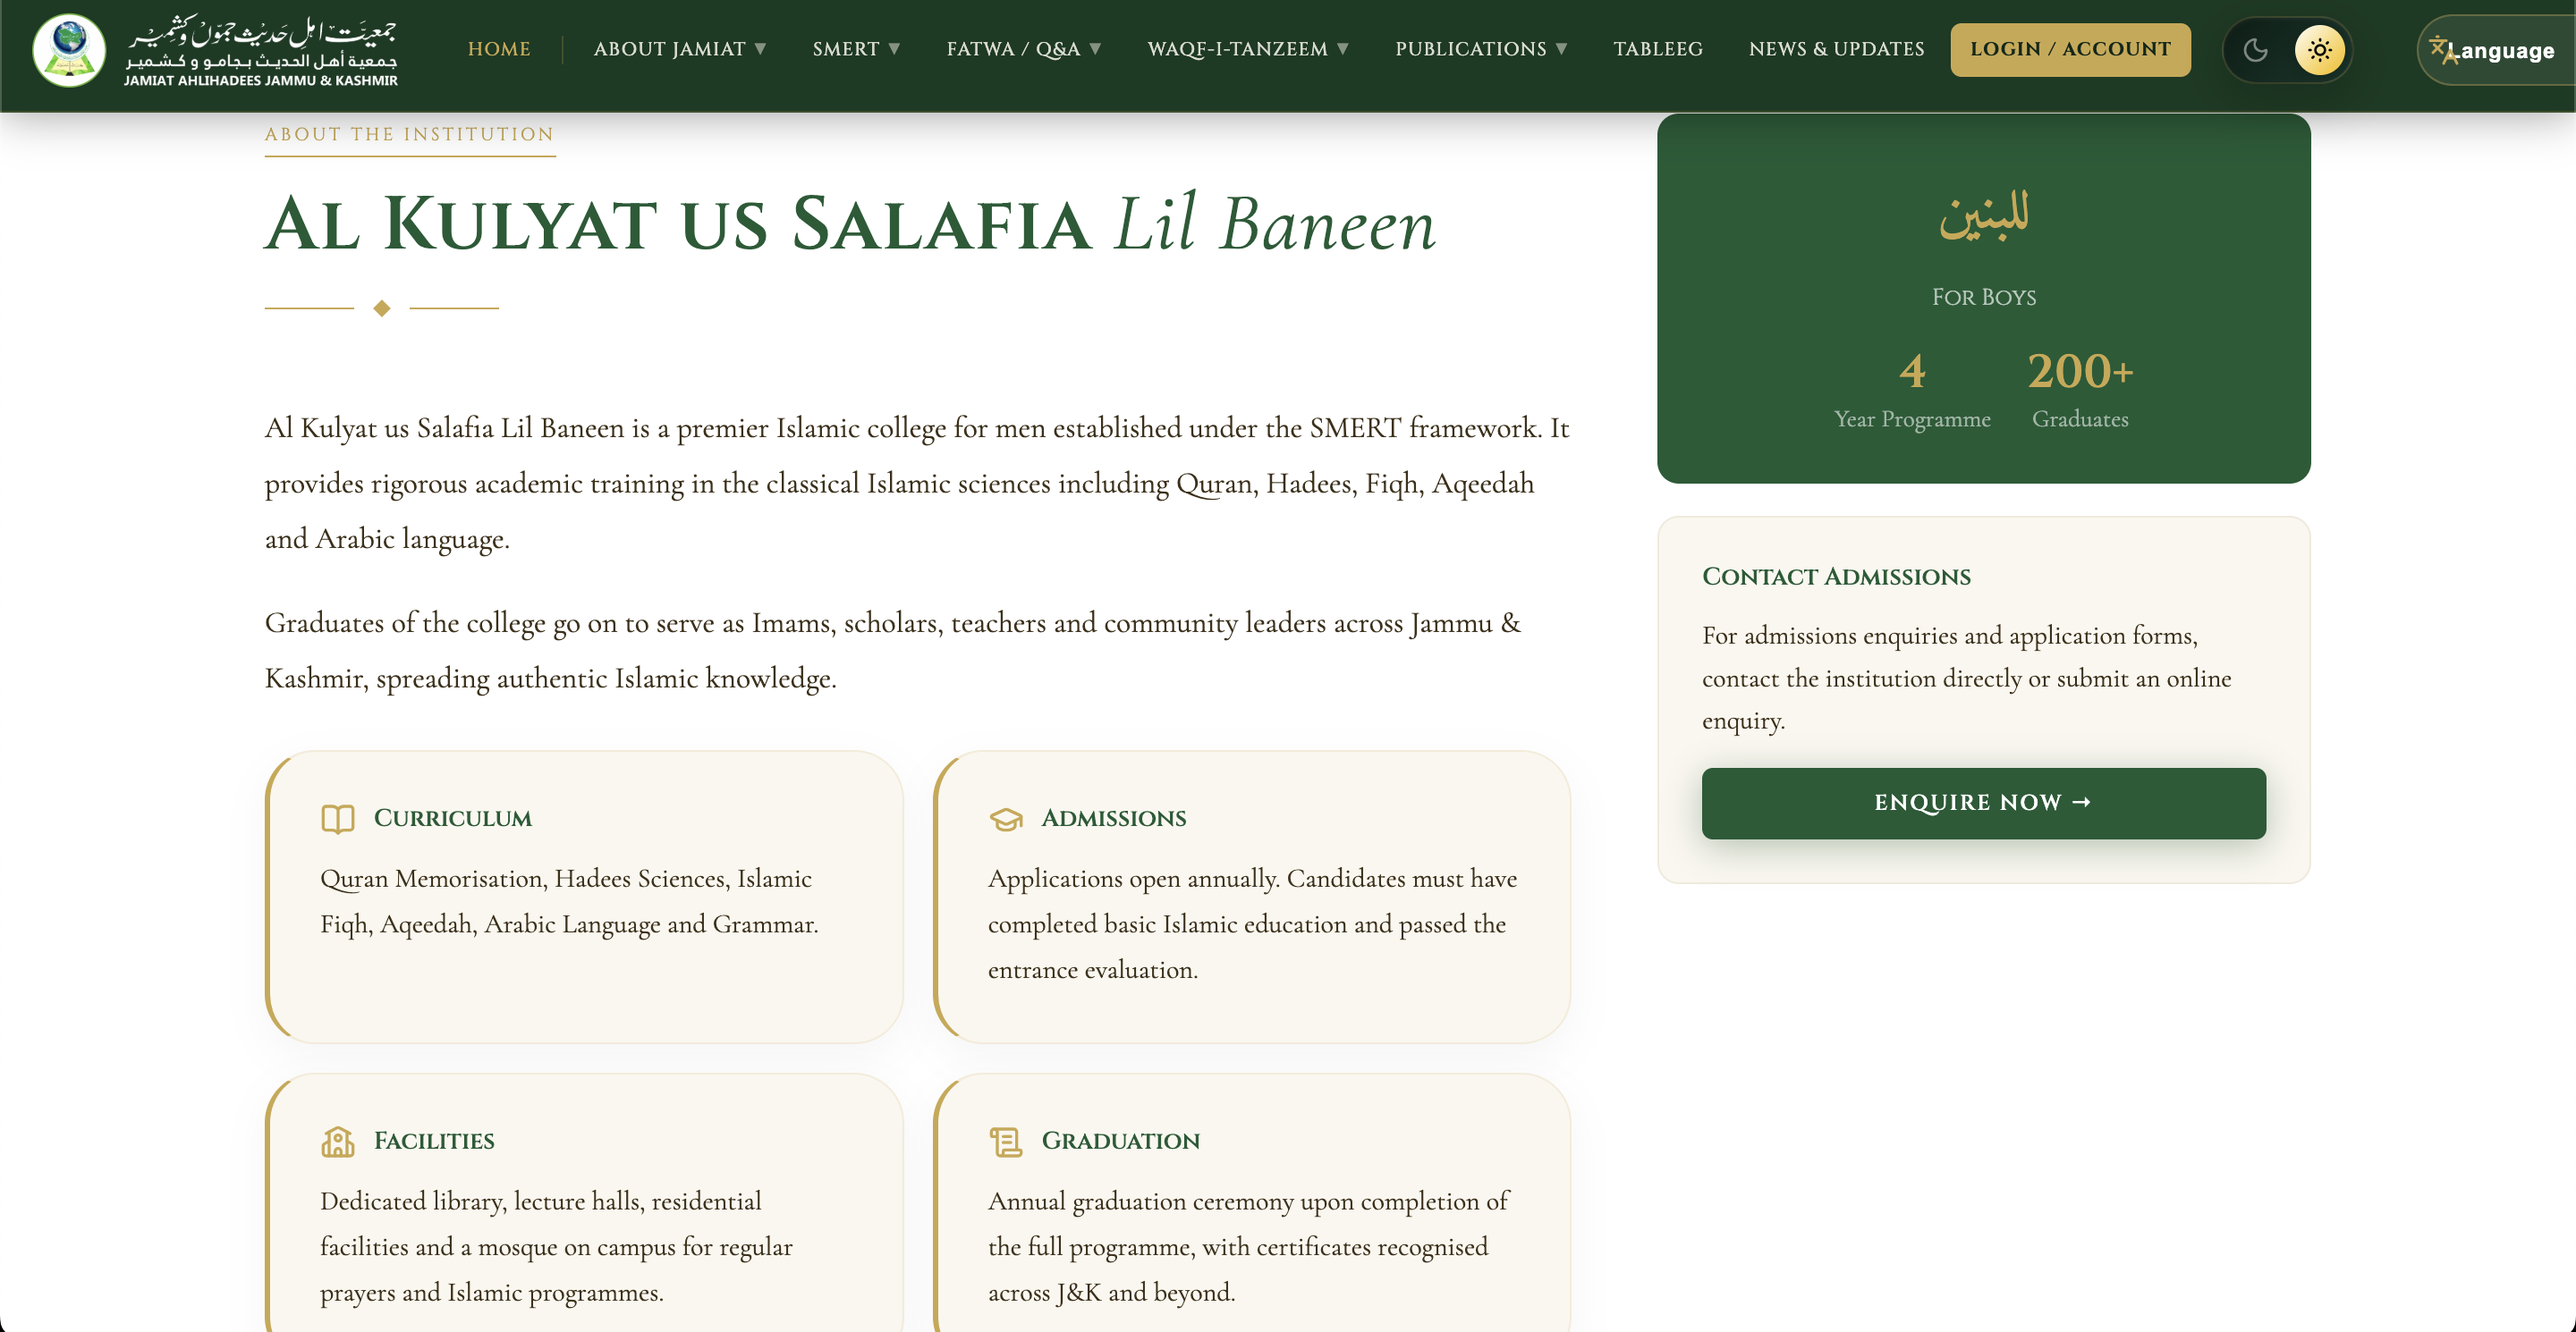
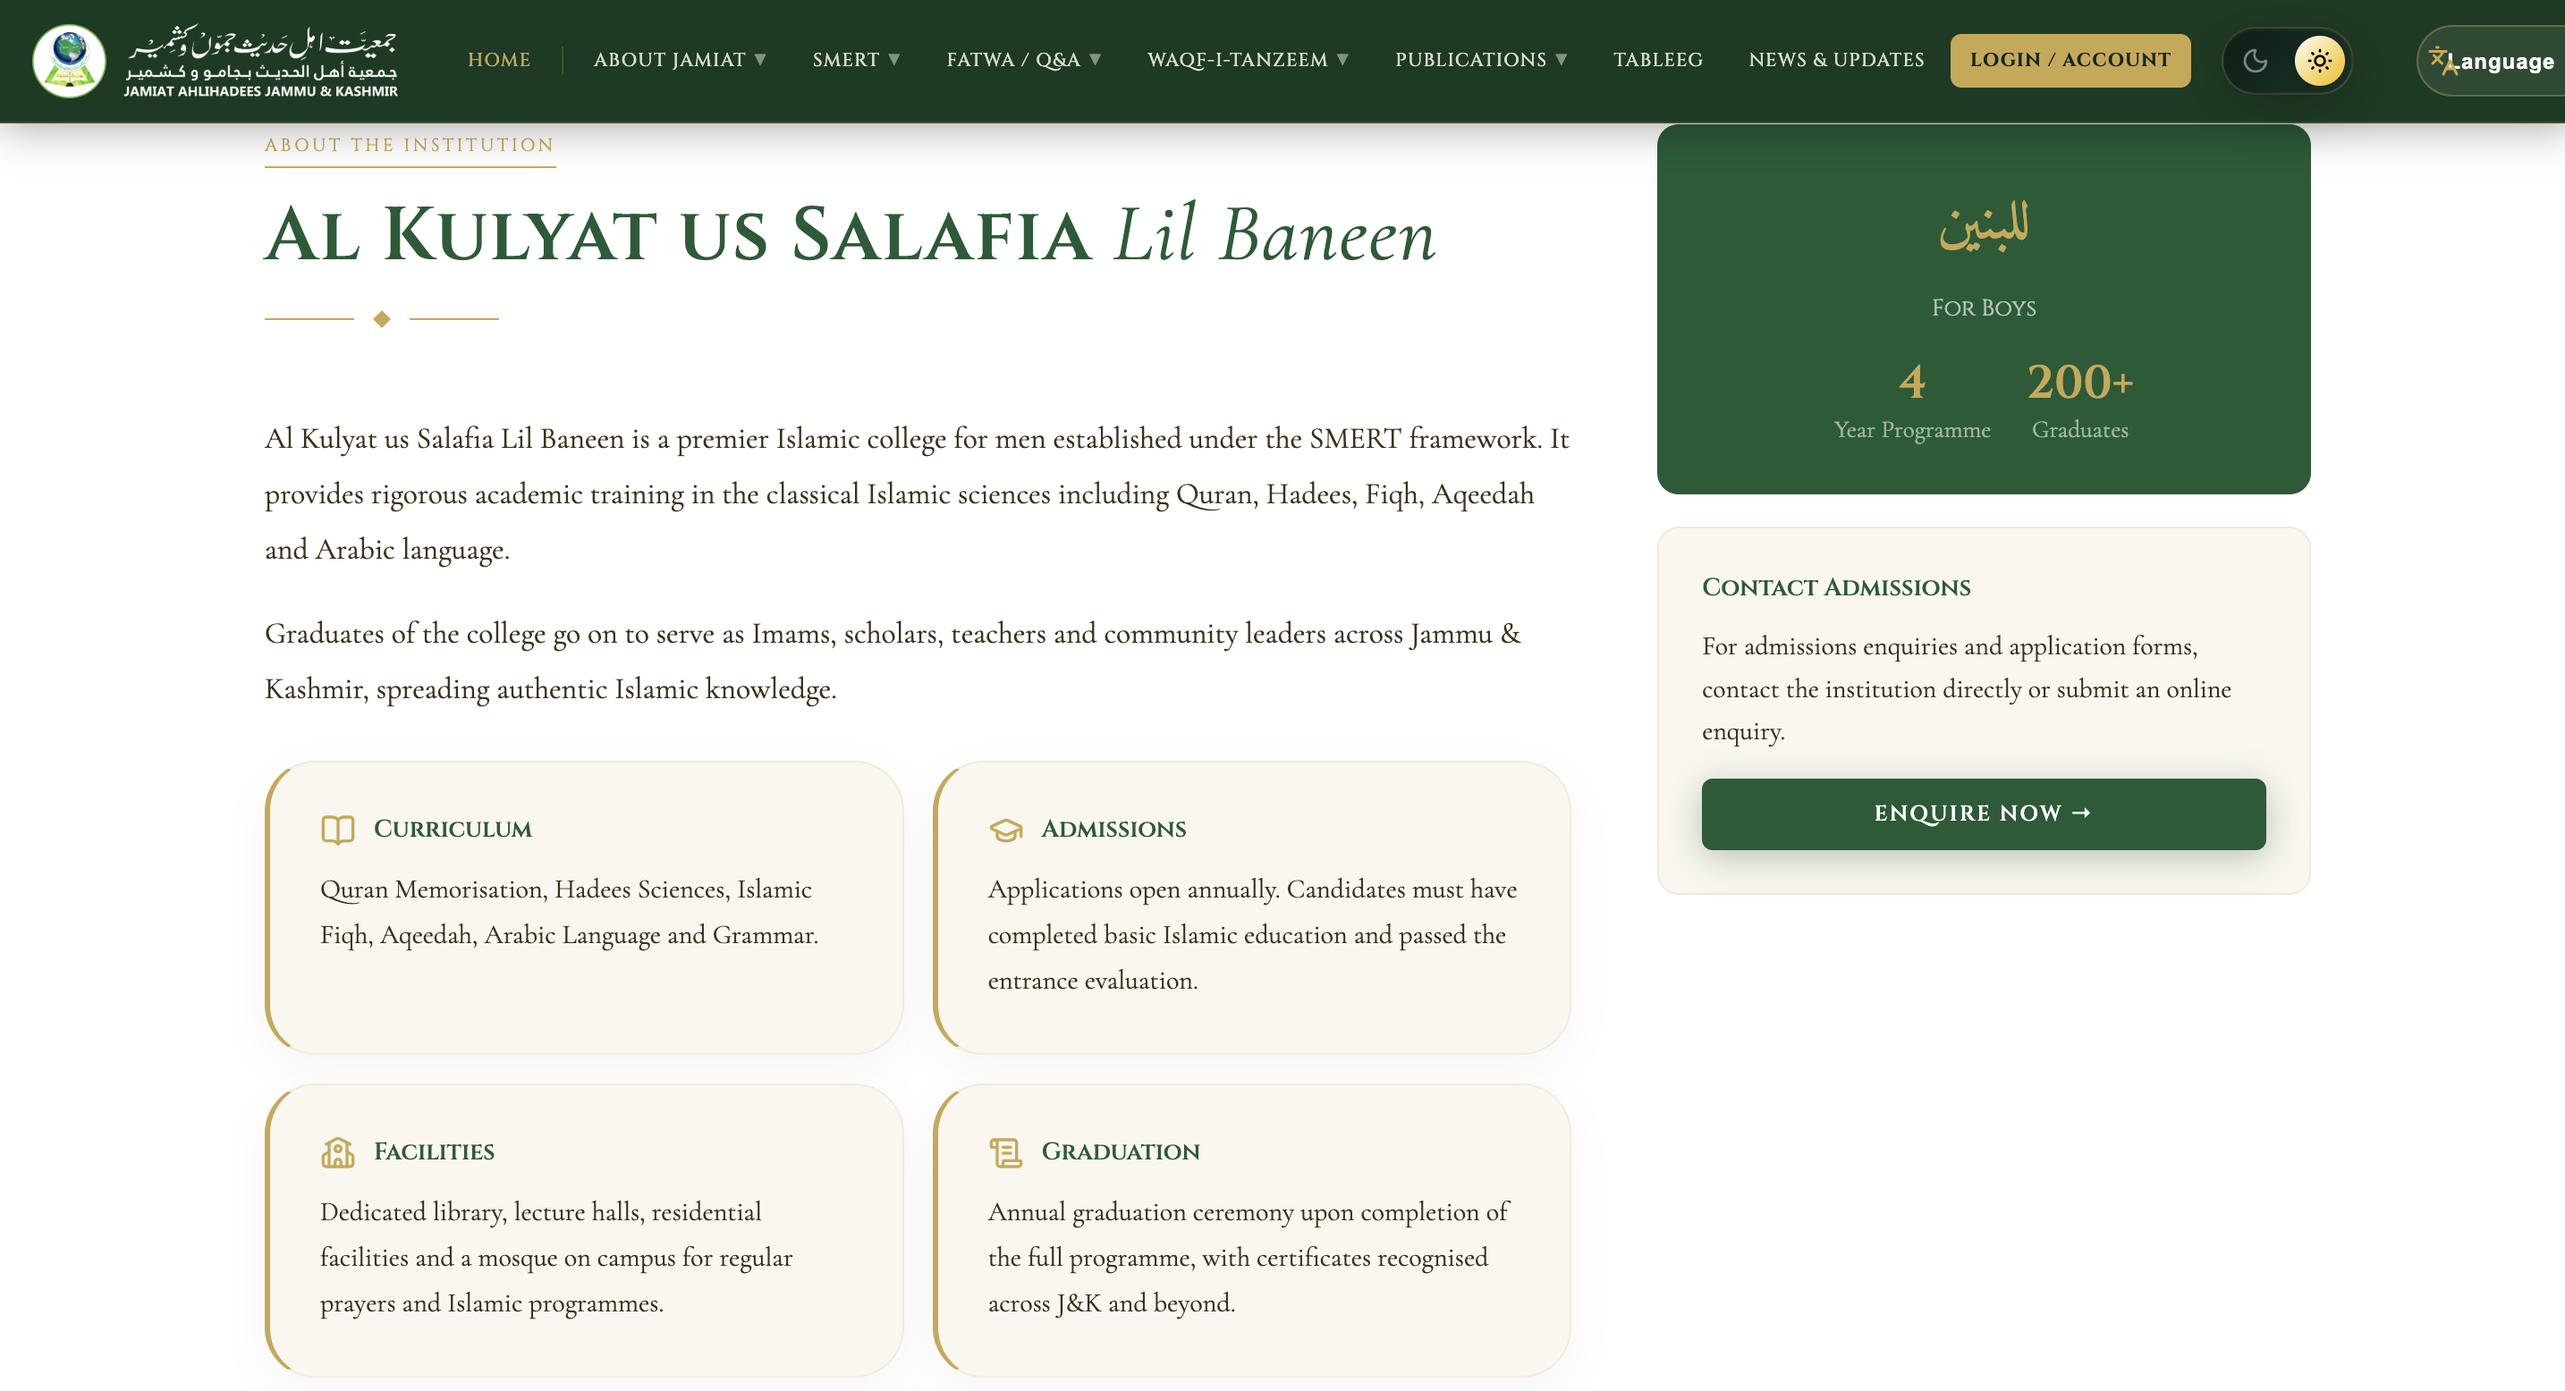
Project pages.

diff --git a/src/app/app.routes.ts b/src/app/app.routes.ts
@@ -8,47 +8,12 @@ import { CertificationsComponent } from './pages/certifications/certifications.c
 import { ContactComponent } from './pages/contact/contact.component';
 
 export const routes: Routes = [
-  {
-    path: '',
-    component: HomeComponent,
-    title: 'Ibraheem Rashid — Software Developer',
-    data: { description: 'Ibraheem Rashid — software developer building across Android, the web, and applied AI. Based in Srinagar, Kashmir.' }
-  },
-  {
-    path: 'about',
-    component: AboutComponent,
-    title: 'About — Ibraheem Rashid',
-    data: { description: "Sales lead turned software developer. How I work, what I'm building right now, and what I do outside of code." }
-  },
-  {
-    path: 'experience',
-    component: ExperienceComponent,
-    title: 'Experience — Ibraheem Rashid',
-    data: { description: 'Work history and education — sales lead, mentor, then software developer, with a B.Sc in Computer Science from the University of Kashmir.' }
-  },
-  {
-    path: 'projects',
-    component: ProjectsComponent,
-    title: 'Projects — Ibraheem Rashid',
-    data: { description: 'Selected projects from Ibraheem Rashid — Siyam-o-Salah, ReviewGuard, and a full website rebuild for Jamiat Ahl-e-Hadees J&K.' }
-  },
-  {
-    path: 'projects/:slug',
-    component: ProjectDetailComponent,
-    title: 'Project — Ibraheem Rashid',
-    data: { description: "A closer look at one of Ibraheem Rashid's projects — the problem, the approach, and the outcome." }
-  },
-  {
-    path: 'certifications',
-    component: CertificationsComponent,
-    title: 'Certifications — Ibraheem Rashid',
-    data: { description: 'Certifications completed on Udemy, covering Android development and Python.' }
-  },
-  {
-    path: 'contact',
-    component: ContactComponent,
-    title: 'Contact — Ibraheem Rashid',
-    data: { description: 'Get in touch with Ibraheem Rashid — open to remote roles, freelance work, and new opportunities.' }
-  },
+  { path: '', component: HomeComponent, title: 'Ibraheem Rashid — Software Developer' },
+  { path: 'about', component: AboutComponent, title: 'About — Ibraheem Rashid' },
+  { path: 'experience', component: ExperienceComponent, title: 'Experience — Ibraheem Rashid' },
+  { path: 'projects', component: ProjectsComponent, title: 'Projects — Ibraheem Rashid' },
+  { path: 'projects/:slug', component: ProjectDetailComponent, title: 'Project — Ibraheem Rashid' },
+  { path: 'certifications', component: CertificationsComponent, title: 'Certifications — Ibraheem Rashid' },
+  { path: 'contact', component: ContactComponent, title: 'Contact — Ibraheem Rashid' },
   { path: '**', redirectTo: '' }
 ];

diff --git a/src/app/pages/project-detail/project-detail.component.html b/src/app/pages/project-detail/project-detail.component.html
@@ -1,27 +1,33 @@
 @if (project(); as p) {
   <section class="section detail-hero">
-    <div class="container">
-      <a routerLink="/projects" class="back-link link-underline">← All projects</a>
-      <span class="eyebrow">{{ p.status }}</span>
-      <h1 class="heading-xl" appReveal>{{ p.title }}</h1>
-      <p class="lede" appReveal>{{ p.tagline }}</p>
+    <div class="container detail-hero__inner">
+      <div class="detail-hero__content">
+        <a routerLink="/projects" class="back-link link-underline">← All projects</a>
+        <span class="eyebrow">{{ p.status }}</span>
+        <h1 class="heading-xl" appReveal>{{ p.title }}</h1>
+        <p class="lede" appReveal>{{ p.tagline }}</p>
 
-      <div class="detail-hero__ctas" appReveal>
-        <a [href]="p.github" target="_blank" rel="noopener" class="btn btn--primary" appMagnetic>View on GitHub</a>
-        @if (p.live) {
-          <a [href]="p.live" target="_blank" rel="noopener" class="btn btn--outline">Visit live site</a>
+        <div class="detail-hero__ctas" appReveal>
+          <a [href]="p.github" target="_blank" rel="noopener" class="btn btn--primary" appMagnetic>View on GitHub</a>
+          @if (p.live) {
+            <a [href]="p.live" target="_blank" rel="noopener" class="btn btn--outline">Visit live site</a>
+          }
+        </div>
+
+        <div class="tag-row detail-hero__tags" appReveal>
+          @for (t of p.stack; track t) {
+            <span class="tag">{{ t }}</span>
+          }
+        </div>
+
+        @if (p.metric) {
+          <div class="detail-hero__metric" appReveal>{{ p.metric }}</div>
         }
       </div>
 
-      <div class="tag-row detail-hero__tags" appReveal>
-        @for (t of p.stack; track t) {
-          <span class="tag">{{ t }}</span>
-        }
+      <div class="detail-hero__cover" [appReveal]="120">
+        <app-shot [src]="p.cover" [alt]="p.title + ' cover'"></app-shot>
       </div>
-
-      @if (p.metric) {
-        <div class="detail-hero__metric" appReveal>{{ p.metric }}</div>
-      }
     </div>
   </section>
 

diff --git a/src/app/data/projects.data.ts b/src/app/data/projects.data.ts
@@ -11,6 +11,7 @@ export interface Project {
   github: string;
   live?: string;
   metric?: string;
+  cover: string;
   screenshots: string[];
 }
 
@@ -41,9 +42,11 @@ export const PROJECTS: Project[] = [
     // NOTE: update this to the specific repo URL if this project lives in its own repository.
     github: 'https://github.com/ibraheemrashid',
     // NOTE: add the new URL here once the redesign actually goes live, e.g. live: 'https://www.jahjk.org/'
+    cover: 'projects/jamiat-ahl-e-hadees/cover.png',
+
     screenshots: [
       'projects/jamiat-ahl-e-hadees/1.png',
-      'projects/jamiat-ahl-e-hadees/2.png'
+      'projects/jamiat-ahl-e-hadees/2.png',
     ]
   },
   {
@@ -65,6 +68,7 @@ export const PROJECTS: Project[] = [
     stack: ['React Native (Expo)', 'JavaScript', 'Kotlin', 'Swift', 'React Navigation', 'Objective-C++', 'AsyncStorage',],
     status: 'In active development · iOS & Android',
     github: 'https://github.com/ibraheemrashid/SiyamoSalah',
+    cover: 'projects/siyam-o-salah/cover.png',
     screenshots: [
       'projects/siyam-o-salah/1.png',
       'projects/siyam-o-salah/2.png',
@@ -95,6 +99,7 @@ export const PROJECTS: Project[] = [
     // NOTE: update this to the specific repo URL if ReviewGuard lives in its own repository.
     github: 'https://github.com/ibraheemrashid',
     metric: '85% sentiment classification accuracy',
+    cover: 'projects/reviewguard/cover.png',
     screenshots: [
       'projects/reviewguard/1.png',
       'projects/reviewguard/2.png'

diff --git a/src/app/app.component.ts b/src/app/app.component.ts
@@ -4,7 +4,6 @@ import { NavComponent } from './shared/nav/nav.component';
 import { FooterComponent } from './shared/footer/footer.component';
 import { ScrollProgressComponent } from './shared/scroll-progress/scroll-progress.component';
 import { BackToTopComponent } from './shared/back-to-top/back-to-top.component';
-import { SeoService } from './shared/seo.service';
 
 @Component({
   selector: 'app-root',
@@ -13,8 +12,4 @@ import { SeoService } from './shared/seo.service';
   templateUrl: './app.component.html',
   styleUrls: ['./app.component.scss']
 })
-export class AppComponent {
-  constructor(seo: SeoService) {
-    seo.init();
-  }
-}
+export class AppComponent {}

diff --git a/src/app/pages/project-detail/project-detail.component.scss b/src/app/pages/project-detail/project-detail.component.scss
@@ -7,6 +7,12 @@
 }
 .back-link:hover { color: var(--teal); }
 
+.detail-hero__inner {
+  display: grid;
+  grid-template-columns: 1fr;
+  gap: 36px;
+  align-items: center;
+}
 .detail-hero .heading-xl { margin: 10px 0 14px; }
 .detail-hero__ctas {
   display: flex;
@@ -22,6 +28,18 @@
   border-top: 1px solid var(--line);
   padding-top: 14px;
   max-width: 400px;
+}
+.detail-hero__cover {
+  border-radius: var(--radius-lg);
+  overflow: hidden;
+  box-shadow: 0 20px 48px rgba(0, 0, 0, 0.14);
+}
+
+@media (min-width: 860px) {
+  .detail-hero__inner {
+    grid-template-columns: 1fr 1fr;
+    gap: 48px;
+  }
 }
 
 .gallery {

diff --git a/src/app/pages/home/home.component.html b/src/app/pages/home/home.component.html
@@ -142,7 +142,7 @@
     <div class="featured__grid">
       @for (project of featured; track project.slug; let i = $index) {
         <a [routerLink]="['/projects', project.slug]" class="featured__card" [appReveal]="i * 90" appTilt>
-          <app-shot [src]="project.screenshots[0]" [alt]="project.title + ' screenshot'"></app-shot>
+          <app-shot [src]="project.cover" [alt]="project.title + ' cover'"></app-shot>
           <div class="featured__card-body">
             <span class="featured__card-status">{{ project.status }}</span>
             <h3>{{ project.title }}</h3>

diff --git a/src/app/pages/projects/projects.component.html b/src/app/pages/projects/projects.component.html
@@ -7,7 +7,7 @@
       @for (project of projects; track project.slug; let i = $index) {
         <article class="card" [appReveal]="i * 80" appTilt>
           <a [routerLink]="['/projects', project.slug]" class="card__media">
-            <app-shot [src]="project.screenshots[0]" [alt]="project.title + ' screenshot'"></app-shot>
+            <app-shot [src]="project.cover" [alt]="project.title + ' cover'"></app-shot>
           </a>
           <div class="card__body">
             <span class="card__status">{{ project.status }}</span>

diff --git a/src/main.ts b/src/main.ts
@@ -1,5 +1,9 @@
 import { bootstrapApplication } from '@angular/platform-browser';
+import { isDevMode } from '@angular/core';
+import { inject } from '@vercel/analytics';
 import { appConfig } from './app/app.config';
 import { AppComponent } from './app/app.component';
+
+inject({ mode: isDevMode() ? 'development' : 'production' });
 
 bootstrapApplication(AppComponent, appConfig).catch((err) => console.error(err));
